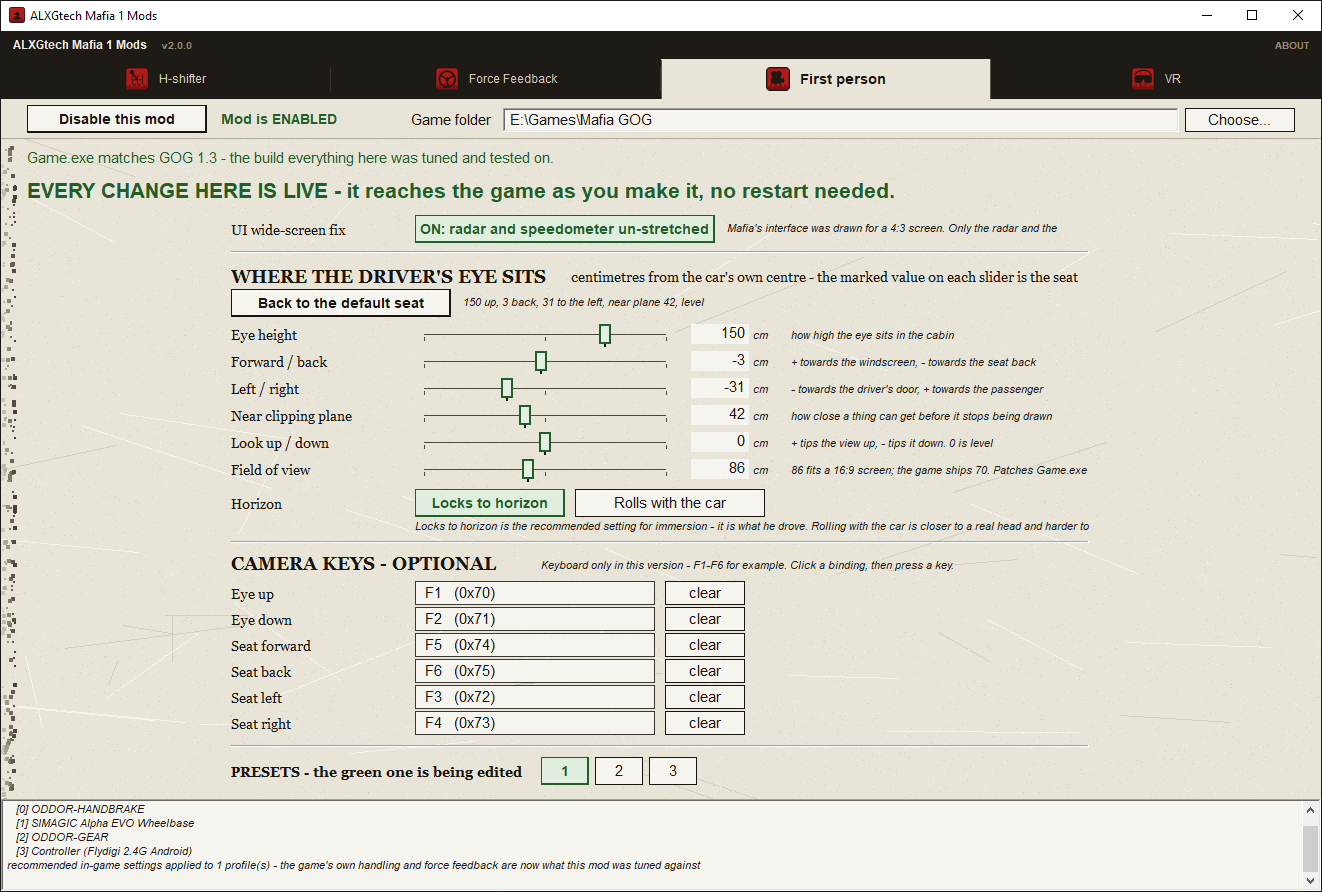
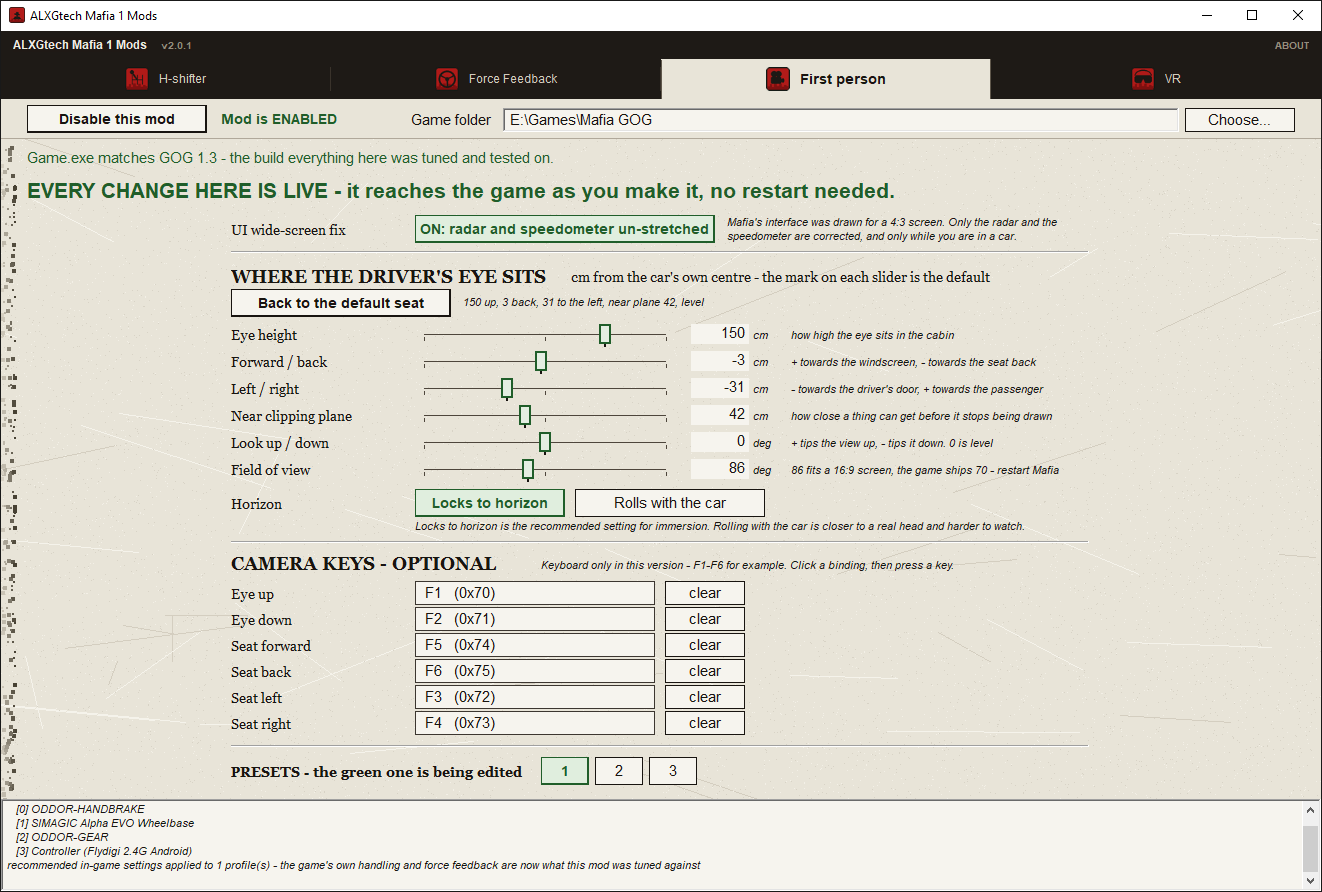
v2.0.1: a fix release for the utility
The four mods are byte for byte the ones in 2.0.0; only ALXGtech Mafia 1 Mods.exe changed.
Opening it no longer creates force feedback settings files in the game folder, no text is cut
off any more, Field of view and Look up / down are labelled in degrees, and the comments in
mafia_fp.ini match the settings under them again. Every detail is in CHANGELOG.md.

The sources are pinned to the commit the 2.0.1 binaries were built from; six of them change. The
three tab screenshots are of the 2.0.1 release build.

diff --git a/src/launcher/launcher.c b/src/launcher/launcher.c
@@ -825,6 +825,48 @@ static int STFits(HFONT f,const char *s,int w){
     SelectObject(dc,o); DeleteDC(dc);
     return sz.cx<=w;
 }
+/* EVERY TEXT THE WINDOW SHOWS FITS ITS BOX - measured the way the control itself wraps it, in the
+   font it was given, for every static on every page. STFits above checks named strings one at a
+   time; this is the class. A caption that needs two lines in a box one line tall prints the first
+   line and drops the rest without any mark, and nothing on the screen says text is missing.
+   Alex photographed exactly that on 2026-08-14 - the wide-screen note stopping at "Only the radar
+   and the" - and it still shipped in 1.4.3 and 2.0.0, because no check ever walked the First
+   person page: the per-string checks all lived on the Force Feedback one. Found again on
+   2026-10-01 in the 2.0 screenshots, with four more like it on the same page. */
+static int g_stClip;
+static BOOL CALLBACK STClipOne(HWND w,LPARAM lp){
+    char cls[16],t[600],what[220]; RECT box,need; HDC dc; HGDIOBJ old; HFONT f;
+    LONG st,type; UINT fl=DT_CALCRECT|DT_EXPANDTABS;
+    (void)lp;
+    if(!GetClassNameA(w,cls,sizeof cls)||lstrcmpiA(cls,"Static")) return TRUE;
+    st=GetWindowLongA(w,GWL_STYLE);
+    if(!(st&WS_VISIBLE)) return TRUE;
+    type=st&SS_TYPEMASK;
+    if(type!=SS_LEFT&&type!=SS_CENTER&&type!=SS_RIGHT&&type!=SS_LEFTNOWORDWRAP) return TRUE;
+    t[0]=0; GetWindowTextA(w,t,sizeof t);
+    if(!t[0]) return TRUE;
+    GetClientRect(w,&box);
+    fl|=(type==SS_LEFTNOWORDWRAP)?DT_SINGLELINE:DT_WORDBREAK;
+    if(st&SS_NOPREFIX) fl|=DT_NOPREFIX;
+    need=box; need.bottom=need.top;          /* DT_CALCRECT grows it to the text */
+    dc=GetDC(w); f=(HFONT)SendMessageA(w,WM_GETFONT,0,0);
+    old=SelectObject(dc,f?(HGDIOBJ)f:GetStockObject(SYSTEM_FONT));
+    DrawTextA(dc,t,-1,&need,fl);
+    SelectObject(dc,old); ReleaseDC(w,dc);
+    if(need.right-need.left>box.right-box.left||need.bottom-need.top>box.bottom-box.top){
+        wsprintfA(what,"cut off: \"%.80s\" needs %dx%d px, its box is %dx%d",t,
+                  need.right-need.left,need.bottom-need.top,box.right-box.left,box.bottom-box.top);
+        STCheck(what,0);
+        g_stClip++;
+    }
+    return TRUE;
+}
+/* every static under `root`, and `root` itself when it is one */
+static int STClipped(HWND root){
+    g_stClip=0;
+    if(root){ STClipOne(root,0); EnumChildWindows(root,STClipOne,0); }
+    return g_stClip;
+}
 static int STFfb(const char *path,const char *key){
     return (int)(LONG)GetPrivateProfileIntA("ffb",key,(UINT)-12345,path);
 }
@@ -881,6 +923,30 @@ static int SelfTest(const char *stockExe){
 
     BuildUi(SW_HIDE);
 
+    /* ---- OPENING THE WINDOW WRITES NOTHING INTO THE FOLDER -----------------------------------
+     * Found 2026-10-01: the window, opened on a folder holding nothing but a stock Game.exe, wrote
+     * ALXG mods\mafia ffb setup\mafia_ffb.ini and profiles\p1.ini within half a second, with no
+     * click and nothing in the log - into a game where force feedback was not even installed.
+     * The Force Feedback page's twelve number boxes report EN_CHANGE while they are being CREATED,
+     * the page took each one for the user typing, and the first 300 ms flush wrote the page out.
+     * (Traced with a side build that logged every PageDirty: twelve calls, all from the box
+     * handler, all in the same tick, before anything had been loaded.)
+     * So: nothing may be waiting to be written when the window has merely opened, and a flush on
+     * a folder with nothing installed must leave nothing behind. Every tab is asked, not only the
+     * one that did it. */
+    {   int k,waiting=0;
+        for(k=0;k<LNTAB;k++) if(g_pending[k]){
+            wsprintfA(what,"tab %d has a write waiting before anybody touched anything",k);
+            STCheck(what,0); waiting++;
+        }
+        STCheck("opening the window leaves no page with a write waiting",waiting==0);
+        PageFlush();
+        SCpy(p,scr); SCat(p,"\\ALXG mods");
+        STCheck("...and the first flush on a folder with nothing installed creates nothing in it",
+                GetFileAttributesA(p)==INVALID_FILE_ATTRIBUTES);
+    }
+    STCheck("with every mod off, every text on every page fits its box",STClipped(g_frame)==0);
+
     for(tab=0;tab<LNTAB;tab++){
         if(!LTABS[tab].tag) continue;
         wsprintfA(what,"%s starts absent",LTABS[tab].name);
@@ -895,6 +961,9 @@ static int SelfTest(const char *stockExe){
         STCheck(what,g_state[tab]==JMOD_ON);
         wsprintfA(what,"with %s on, its page is live",LTABS[tab].name);
         STCheck(what,CountDisabled(tab)==0);
+        wsprintfA(what,"with %s on, every text on its page and in the header fits its box",
+                  LTABS[tab].name);
+        STCheck(what,STClipped(g_page[tab])+STClipped(g_lamp)==0);
         wsprintfA(what,"switching %s off succeeds",LTABS[tab].name);
         STCheck(what,ToggleOff(tab)==1);
         /* Everything but the three header controls, which have to stay live or the mod could
@@ -1897,6 +1966,24 @@ static int SelfTest(const char *stockExe){
             ffb_LampText(t,3,"","",FFBV_NONE,0,0);
             STCheck("...and with the mod off, to switch it on first, and fits",
                     StrHas(t,"switch the mod on")&&STFits(g_fBody,t,W_FULL-28));
+        }
+
+        /* ---- A CHOSEN WHEEL THAT IS NOT PLUGGED IN ----
+           The wheel line's longest sentence, and the 2.0 screenshots caught it printing its last
+           line below the box when the base was switched off. A GUID cannot be broken across lines,
+           so it costs a whole line of its own. */
+        {   char was[80];
+            SCpy(was,ffb_device);
+            SCpy(ffb_device,"{00000000-1111-2222-3333-444455556666}");
+            PageFfbPoll();
+            {   char held[400]; held[0]=0;
+                if(ffb_devHeld) GetWindowTextA(ffb_devHeld,held,sizeof held);
+                STCheck("a chosen wheel that is not plugged in is said on the wheel line",
+                        FfbDevChosen(ffb_device)==FFBDEV_GONE&&StrHas(held,"not plugged in"));
+            }
+            STCheck("...and that sentence fits its box",STClipped(ffb_devHeld)==0);
+            SCpy(ffb_device,was);
+            PageFfbPoll();
         }
 
         /* ---- EVERY STRING FITS ITS BOX, in the face it is drawn in ---- */

diff --git a/src/launcher/page_fpv.h b/src/launcher/page_fpv.h
@@ -139,8 +139,13 @@ static const char *FPHINT[FP_NROW] = {
     "how close a thing can get before it stops being drawn",
     "+ tips the view up, - tips it down. 0 is level",
     /* The one row on this page that is not live, and it has to say so itself: the banner above
-       is green because everything else here reaches a running game in a second. */
-    "86 fits a 16:9 screen; the game ships 70. Patches Game.exe - restart Mafia" };
+       is green because everything else here reaches a running game in a second. ONE LINE of
+       300 px: the longer sentence wrapped, and the half that fell off the box was "restart
+       Mafia" - the one thing this hint exists to say (the 2.0 screenshots, 2026-10-01). */
+    "86 fits a 16:9 screen, the game ships 70 - restart Mafia" };
+/* The unit beside each box. Every row said "cm" until 2026-10-01, so the field of view read
+   "86 cm" - the two angle rows are degrees: pitch_deg in the ini, and the exe's own FOV. */
+static const char *FPUNIT[FP_NROW] = { "cm", "cm", "cm", "cm", "deg", "deg" };
 
 static int  fp_val[FP_NROW];
 static int  fp_level = 1;           /* lock_roll */
@@ -530,17 +535,22 @@ static void PageFpvCreate(HWND h){
     /* One line beside it, not a paragraph - the button already says what the state does. The FFB
        page dropped its paragraph for the same reason: "too strong" next to a control that can
        simply say what it is. */
+    /* TWO lines, level with the 28 px button. It was given one line of 16 px and has needed two
+       since the day it was written, so every player saw it stop at "Only the radar and the" -
+       Alex photographed that on 2026-08-14, and it shipped in 1.4.3 and 2.0.0 regardless. */
     MkTextF(h,"Mafia's interface was drawn for a 4:3 screen. Only the radar and the speedometer "
               "are corrected, and only while you are in a car.",
-            FPC_SLIDER+312,y+6,FP_R-FPC_SLIDER-312,16,FP_ID_NOTE,g_fSmall,0);
+            FPC_SLIDER+312,y,FP_R-FPC_SLIDER-312,28,FP_ID_NOTE,g_fSmall,0);
     y+=36;
     CreateWindowExA(0,"STATIC","",WS_CHILD|WS_VISIBLE|SS_ETCHEDHORZ,FPC_LABEL,y,FP_W,2,h,
                     NULL,NULL,NULL);
     y+=12;
 
-    MkTextF(h,"WHERE THE DRIVER'S EYE SITS",FPC_LABEL,y+3,330,20,FP_ID_SECT,g_fSection,0);
-    MkText(h,"centimetres from the car's own centre - the marked value on each slider is the seat "
-             "set at the wheel",FPC_LABEL+340,y+5,FP_R-FPC_LABEL-340,18,0);
+    MkTextF(h,"WHERE THE DRIVER'S EYE SITS",FPC_LABEL,y+3,330,22,FP_ID_SECT,g_fSection,0);
+    /* One line, and it was two: "...is the seat set at the wheel" lost its last four words to the
+       box edge. Each row now carries its own unit, so this says only what the marks are. */
+    MkText(h,"cm from the car's own centre - the mark on each slider is the default",
+           FPC_LABEL+340,y+5,FP_R-FPC_LABEL-340,18,0);
     y+=26;
     MkBtn(h,"Back to the default seat",FPC_LABEL,y,220,28,FP_ID_SEATREF);
     /* The numbers here MUST match FPREF above. They did not for a day: the button said
@@ -560,7 +570,7 @@ static void PageFpvCreate(HWND h){
         fp_box[i]=CreateWindowExA(0,"EDIT","",WS_CHILD|WS_VISIBLE|ES_RIGHT|ES_AUTOHSCROLL,
                                   FPC_BOX,y+3,58,20,h,(HMENU)(INT_PTR)(FP_ID_BOX0+i),NULL,NULL);
         SendMessageA(fp_box[i],WM_SETFONT,(WPARAM)g_fField,TRUE);
-        MkTextF(h,"cm",FPC_BOX+62,y+7,24,16,FP_ID_NOTE,g_fSmall,0);
+        MkTextF(h,FPUNIT[i],FPC_BOX+62,y+7,24,16,FP_ID_NOTE,g_fSmall,0);
         fp_hint[i]=MkTextF(h,FPHINT[i],FPC_HINT,y+7,FPW_HINT,16,FP_ID_HINT0+i,
                            g_fSmall,0);
         y+=27;
@@ -580,8 +590,10 @@ static void PageFpvCreate(HWND h){
     fp_level_btn=MkBtn(h,"Locks to horizon",FPC_SLIDER,y,150,28,FP_ID_LEVEL);
     fp_tilt_btn =MkBtn(h,"Rolls with the car",FPC_SLIDER+160,y,190,28,FP_ID_TILT);
     y+=30;
-    MkTextF(h,"Locks to horizon is the recommended setting for immersion - it is what he drove. "
-              "Rolling with the car is closer to a real head and harder to watch.",
+    /* One line: the sentence wrapped and lost "watch." - and it said "it is what he drove", a
+       line about Alex in the third person on a page every player reads. Cut 2026-10-01. */
+    MkTextF(h,"Locks to horizon is the recommended setting for immersion. Rolling with the car is "
+              "closer to a real head and harder to watch.",
             FPC_SLIDER,y,FP_R-FPC_SLIDER,16,FP_ID_NOTE,g_fSmall,0);
     y+=22;
 

diff --git a/src/launcher/page_ffb.h b/src/launcher/page_ffb.h
@@ -1231,9 +1231,12 @@ static void PageFfbPoll(void){
         /* The two facts this line can carry, in priority order. A chosen device that is not here
            outranks anything the status file says: it is about to become a substitution, and saying
            so BEFORE the game runs is the only warning that arrives in time. */
+        /* Two lines at most - the box is 32 px. The dropdown's face already says "the wheel you
+           chose is not plugged in", so this line need not say it again; it was three lines and
+           its last one fell off the box (the 2.0 screenshots, with the base switched off). */
         if(chosen==FFBDEV_GONE)
-            wsprintfA(t,"the wheel you chose is not plugged in - %s. The mod will fall back to the "
-                        "first device offered.",ffb_device);
+            wsprintfA(t,"%s is not plugged in - the mod will take the first device offered",
+                      ffb_device);
         /* Nothing when there is no device: the dropdown's own face already says so, and the same
            sentence twice on one line reads as two different problems. */
         else if(ffbdev_n==0)
@@ -1583,9 +1586,16 @@ static void ffb_MkRow(HWND h,int i){
     ffb_reset[i]=MkBtn(h,"",0,0,20,20,FF_ID_RESET0+i);
     ShowWindow(ffb_reset[i],SW_HIDE);
     ffb_slider[i]=MkSliderOps(h,0,0,g->slW,26,FF_ID_SLIDER0+i,&FFB_SLIDER_OPS);
+    /* QUIET, because an EDIT created with text reports EN_CHANGE while it is being created - and
+       the box handler took that for the user typing "100" over a page that had loaded nothing
+       yet, marked the page changed, and the first flush wrote mafia_ffb.ini and a preset into
+       whatever folder the window was opened on, force feedback installed or not. Traced on
+       2026-10-01 with a side build logging every PageDirty: twelve, one per box, all from here. */
+    ffb_quiet=1;
     ffb_box[i]=CreateWindowExA(WS_EX_CLIENTEDGE,"EDIT","100",
         WS_CHILD|WS_VISIBLE|ES_RIGHT|ES_AUTOHSCROLL,0,0,56,22,h,
         (HMENU)(INT_PTR)(FF_ID_BOX0+i),NULL,NULL);
+    ffb_quiet=0;
     SendMessageA(ffb_box[i],WM_SETFONT,(WPARAM)g_fField,TRUE);
     ffb_unit[i]=MkTextF(h,SUNIT[i],0,0,g->unW,18,FF_ID_UNIT0+i,g_fField,0);
     ffb_hint[i]=MkTextF(h,SHINT[i],0,0,g->hnW,18,FF_ID_HINT0+i,g_fSmall,0);
@@ -1716,7 +1726,9 @@ static void PageFfbCreate(HWND h){
      * translated: *"The wheel choice must be literally one line."*
      * 88, not 64: at 64 the section face drew "WHEE". Bounds are written down rather than
      * eyeballed: drop 96..516   refresh 526..676   test 686..886   held 896..1268. */
-    MkTextF(h,"WHEEL",COL_LABEL,y+6,88,20,FF_ID_SECT0+4,g_fSection,0);
+    /* 22 tall, not 20: the section face is 21 px, so a 20 px box cut its last row - invisible on
+       capitals, and exactly what STClipped exists to say out loud */
+    MkTextF(h,"WHEEL",COL_LABEL,y+6,88,22,FF_ID_SECT0+4,g_fSection,0);
     ffb_devDrop=MkBtn(h,"",COL_LABEL+96,y,420,30,FF_ID_DEVDROP);
     ffb_devRefresh=MkBtn(h,"Refresh list",COL_LABEL+526,y,150,30,FF_ID_DEVREFRESH);
     ffb_devTest=MkBtn(h,"Test - push the wheel",COL_LABEL+686,y,200,30,FF_ID_DEVTEST);
@@ -1733,7 +1745,7 @@ static void PageFfbCreate(HWND h){
      * then the two columns". Every other number here is a function of it.
      * The header and its sentence share a line - his, on the page growing back the first time:
      * "squeeze it vertically anyway, we squeezed and squeezed and it stretched out again". */
-    MkTextF(h,"WHEEL ROTATION RANGE",COL_LABEL,y+3,270,20,FF_ID_SECT0,g_fSection,0);
+    MkTextF(h,"WHEEL ROTATION RANGE",COL_LABEL,y+3,270,22,FF_ID_SECT0,g_fSection,0);
     MkText(h,FFB_DOR_TEXT,COL_LABEL+280,y+5,W_FULL-280,18,0);
     y+=26;
     {   /* 600 keeps a wider face and the larger figure: it is the range every constant in this

diff --git a/src/patcher/install_core.h b/src/patcher/install_core.h
@@ -203,7 +203,12 @@ static const char *OUR_FP_INI_MD5[] = {
     "6b7eb4cdba02d287d6d2b056e8aeceaf",  /* the seat that ships: 150 / -3 / -31, near 42, view_mode 13 */
     "4cad19eefcd28ccd3cef103cf851df71",  /* the settled seat: 150 / 3 / -25, near 36, roll lock */
     "88c3783693a5f28aa0abff1386d048e8",  /* 2026-09-13: comments only - F1..F5 are the FFB preset
-                                            bank again, and the seat direction table was wrong */
+                                            bank again, and the seat direction table was wrong;
+                                            this is the one 2.0.0 shipped */
+    "78f4aee119cd59b2af5a1e8d2585ac0a",  /* 2026-10-01: comments only - they now describe the
+                                            values under them: seat keys F1..F6 as shipped,
+                                            view 13, HOME and the pitch trim retired, the scene
+                                            dump off. Every value byte-identical to 88c37836 */
 };
 /* THE TWO ROWS AT THE TOP WERE MISSING AND THAT WAS A REAL DEFECT, found 2026-08-14 while
    shipping 1.2.1. The file this patcher INSTALLS has to be recognisable as ours or an uninstall

diff --git a/src/launcher/version.h b/src/launcher/version.h
@@ -10,7 +10,7 @@
 #ifndef ALXG_VERSION_H
 #define ALXG_VERSION_H
 
-#define ALXG_VERSION "2.0.0"
+#define ALXG_VERSION "2.0.1"
 
 /* THE NAME, in ONE place. Alex settled it on 2026-08-12 in two steps: first "ALXG Tech Mafia
    Mods", then - having thought about it - a single-word nickname. His reason, translated:

diff --git a/CHANGELOG.md b/CHANGELOG.md
@@ -4,6 +4,30 @@ All notable changes to this project are documented here. The format follows
 [Keep a Changelog](https://keepachangelog.com/en/1.1.0/), and this project uses semantic
 versioning.
 
+## [2.0.1] - 2026-10-01
+
+A fix release for the utility. The four mod files are byte for byte the ones in 2.0.0, so a
+2.0.0 install needs only the new `ALXGtech Mafia 1 Mods.exe` - nothing has to be switched off and
+on again.
+
+### Fixed
+
+- **Opening the utility no longer creates force feedback settings files.** In 1.4.3 and 2.0.0,
+  merely opening the window wrote `ALXG mods\mafia ffb setup\mafia_ffb.ini` and `profiles\p1.ini` within
+  half a second, into whatever game folder it was pointed at - including one where force feedback
+  was not installed. They are now written only when something on the Force Feedback tab changes or
+  the mod is switched on.
+- **No text is cut off any more.** Four notes on the First person tab ran past their boxes and
+  lost their ends - among them the field of view's "restart Mafia", on the one setting of that tab
+  that does not reach a running game. The line the Force Feedback tab shows for a chosen wheel
+  that is not plugged in had the same fault.
+- **Field of view and Look up / down are labelled in degrees**, not centimetres.
+- **The comments in `mafia_fp.ini` match the settings under them.** Several had drifted: the seat
+  keys were said to ship unbound and two of their pairs were described the wrong way round, the
+  camera view was said to be 9 above a 13, and keys that ship switched off were described as
+  working. Only comments changed - every setting is the same as in 2.0.0. The installer never
+  overwrites an existing `mafia_fp.ini`, so this reaches new installs only.
+
 ## [2.0.0] - 2026-10-01
 
 A major version, on purpose. The force feedback is a new model of the road rather than a retune of
